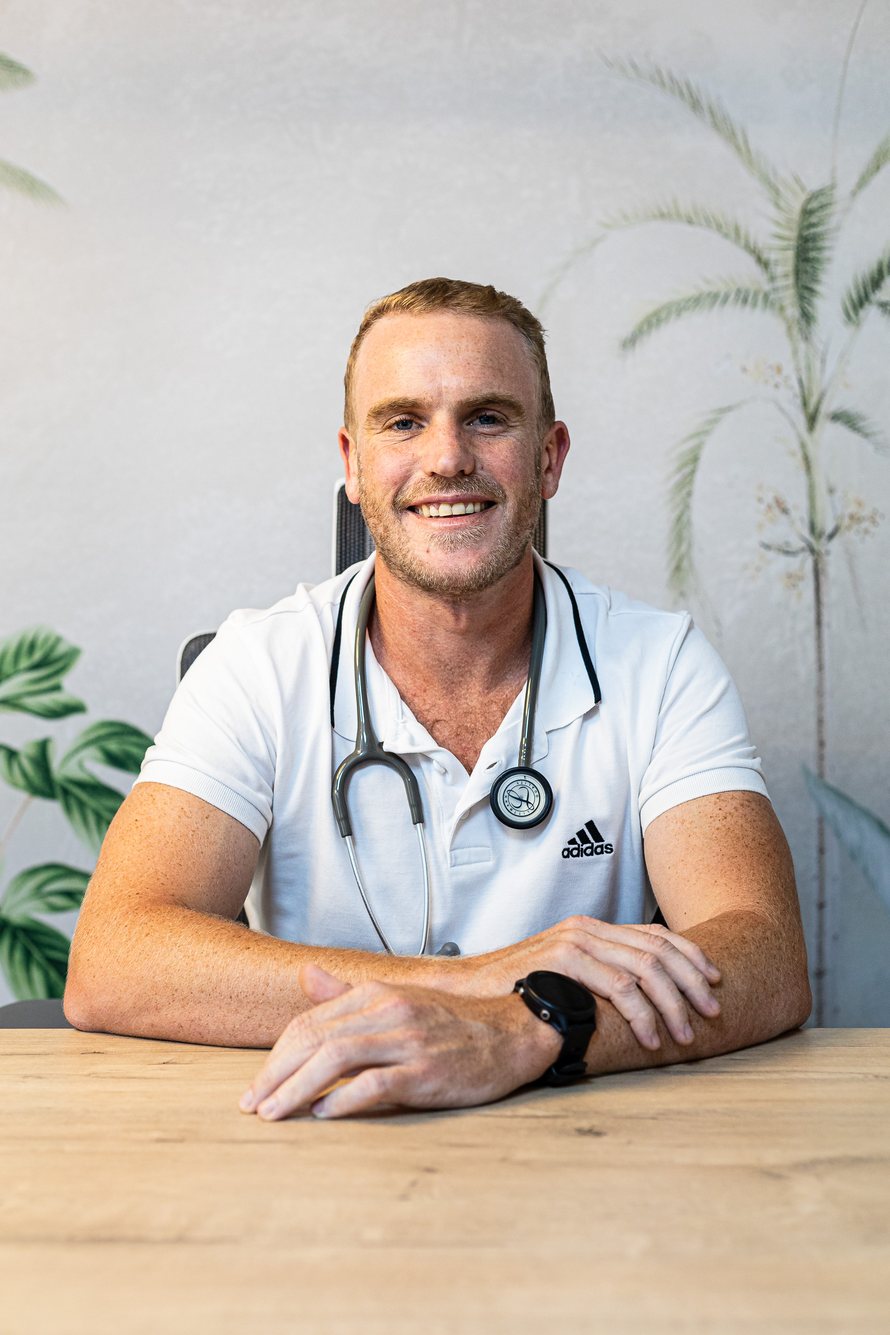
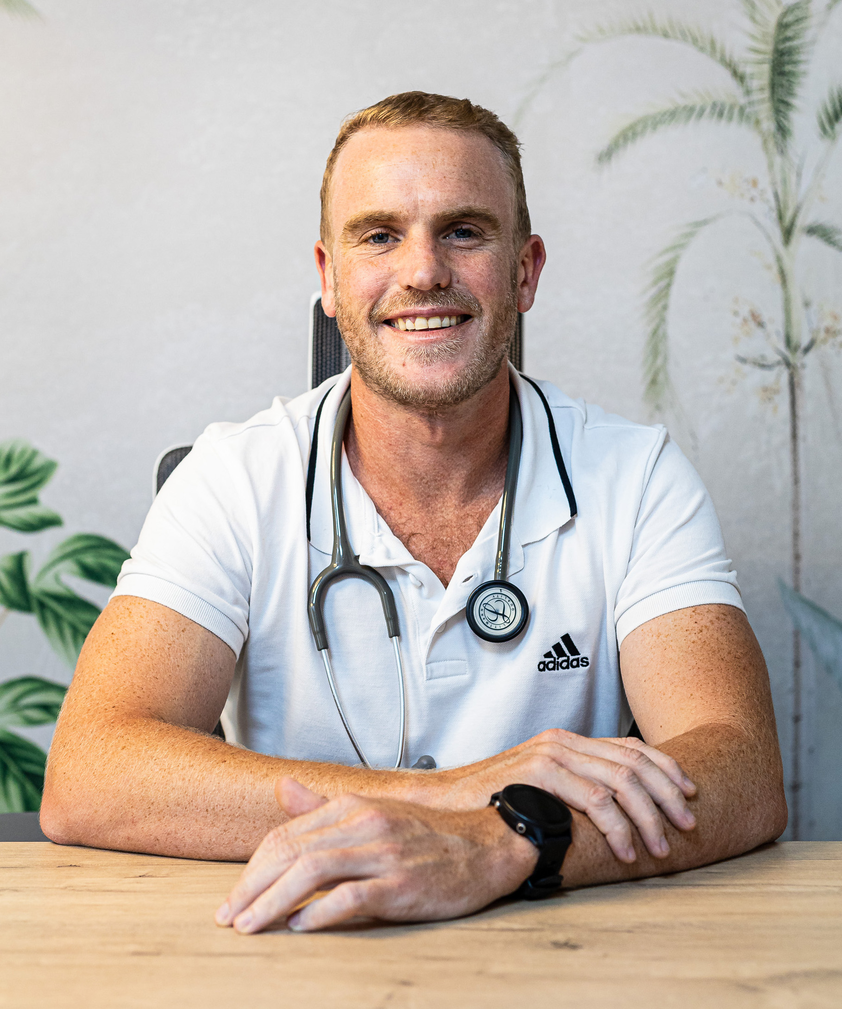
feat: add about section to home page

diff --git a/app/page.tsx b/app/page.tsx
@@ -1,29 +1,35 @@
+import Image from "next/image";
 import HeroComponent from "./_components/home-page/hero-component";
 
+import data from "@/app/_data/general-data.json";
+
 export default function Home() {
+  const {
+    homePage: {
+      about: { paragraphs, image: aboutImage },
+    },
+  } = data;
+
   return (
     <>
       <HeroComponent />
-      <main>
-        <p>
-          nesciunt quisquam, eius, repellendus accusantium eligendi unde
-          aspernatur odio? Vitae iste vel, sapiente facere illo aliquam impedit,
-          rem unde dolor vero ea ab doloribus ipsum quo voluptatem obcaecati
-          repudiandae placeat nemo maxime. Error at quasi reiciendis illo
-          voluptate molestias nesciunt deleniti, blanditiis voluptatum neque vel
-          aut cum voluptatem ratione a. Harum, atque. Commodi sit consequatur id
-          illo quia repudiandae sint dolorem, voluptatum ipsa nulla laborum
-          debitis asperiores numquam suscipit deleniti alias sapiente possimus
-          qui ab unde reprehenderit. Obcaecati soluta placeat neque! Saepe, at?
-          Repellendus fuga, quidem consectetur voluptatibus autem excepturi esse
-          impedit numquam debitis, sequi velit dolorem porro accusamus adipisci
-          placeat tenetur earum distinctio neque ducimus doloribus hic officia
-          consequatur molestiae voluptatum. Est eius commodi provident dicta eos
-          quam cum architecto, modi non nulla tempore aspernatur sapiente beatae
-          hic quibusdam quis repellendus. Vero minus quae perspiciatis, nobis
-          enim quaerat sed sequi aliquam suscipit sapiente, aut officia?
-          Distinctio, quam?
-        </p>
+      <main className="pt-20 grid gap-10 bg-[url('/images/monks-medical-16.jpg')] -mx-7 p-7 min-[800px]:grid-cols-[1fr_250px] desktopSmall:grid-cols-[1fr_0.75fr] desktopSmall:-mx-[200px] desktopSmall:px-[200px]">
+        <h2 className="min-[800px]:hidden">Dr. Kyle Rorke</h2>
+        <div className="grid gap-4 order-2 min-[800px]:order-1 place-content-start">
+          <h2 className="hidden mb-6 min-[800px]:block">Dr. Kyle Rorke</h2>
+          {paragraphs.map((item, index) => (
+            <p key={index} className="text-center min-[800px]:text-justify">
+              {item}
+            </p>
+          ))}
+        </div>
+        <Image
+          src={aboutImage}
+          alt="Dr. Kyle Rorke"
+          width={600}
+          height={900}
+          className="aspect-[3/4] phone:max-h-[450px] min-[800px]:max-h-fit min-[500px]:object-top min-[800px]:order-2 desktopSmall:aspect-square"
+        />
       </main>
     </>
   );

diff --git a/app/_components/navigation/mobile/mobile-header.tsx b/app/_components/navigation/mobile/mobile-header.tsx
@@ -1,6 +1,6 @@
 "use client";
 
-import { useState } from "react";
+import { useEffect, useState } from "react";
 
 import classNames from "classnames";
 
@@ -9,6 +9,18 @@ import MobileMenuToggle from "./mobile-menu-toggle";
 
 const MobileHeader = () => {
   const [showMenuToggle, setShowMenuToggle] = useState(false);
+
+  useEffect(() => {
+    if (showMenuToggle) {
+      document.body.style.overflow = "hidden";
+    } else {
+      document.body.style.overflow = "auto";
+    }
+
+    return () => {
+      document.body.style.overflow = "auto";
+    };
+  }, [showMenuToggle]);
 
   return (
     <header className="desktopSmall:hidden">
@@ -51,7 +63,7 @@ const MobileHeader = () => {
       <MobileMenuToggle
         onClick={() => setShowMenuToggle(!showMenuToggle)}
         cssClasses={classNames(
-          "fixed top-16 z-50 w-full h-full bg-white/95 dark:bg-beige900/[98%] px-6 pt-12 ease-in-out duration-[250ms] tablet:px-10 desktopSmall:hidden",
+          "fixed top-16 z-50 w-full h-screen bg-white dark:bg-beige900/[98%] px-6 pt-12 ease-in-out duration-[250ms] tablet:px-10 desktopSmall:hidden",
           {
             "translate-x-0": showMenuToggle,
             "translate-x-full": !showMenuToggle,

diff --git a/app/_components/navigation/footer.tsx b/app/_components/navigation/footer.tsx
@@ -30,7 +30,7 @@ const Footer = () => {
               alt="Monk's Medical logo"
               width={100}
               height={124.49}
-              className="desktopSmall:hidden"
+              className="desktopSmall:hidden w-[100px]"
             />
             <p className="flex flex-col gap-1 items-center desktopSmall:flex-row desktopSmall:gap-0">
               <Link
@@ -49,7 +49,7 @@ const Footer = () => {
               alt="Monk's Medical logo"
               width={67}
               height={83}
-              className="hidden desktopSmall:block"
+              className="hidden desktopSmall:block w-[67px]"
             />
             <p className="flex flex-col gap-1 items-center font-thin desktopSmall:items-end">
               Designed & developed by
@@ -59,7 +59,7 @@ const Footer = () => {
                 className="font-thin text-link desktopSmall:hover:opacity-80 ease-in-out duration-300 p-2 -m-2 desktopSmall:p-0 desktopSmall:m-0"
               >
                 The Wright Designs
-              </Link>{" "}
+              </Link>
             </p>
           </div>
         </div>

diff --git a/app/_components/slider.tsx b/app/_components/slider.tsx
@@ -36,10 +36,9 @@ const Slider = ({ cssClasses, desktop }: Props) => {
             <SwiperSlide key={index}>
               <Image
                 src={slide}
-                alt={`Monk's Medical - Image ${index}`}
+                alt={`Monk's Medical by Dr. Kyle Rorke - Image ${index}`}
                 width={1680}
                 height={1120}
-                className="w-full h-full object-cover"
               />
             </SwiperSlide>
           ))}

diff --git a/tailwind.config.ts b/tailwind.config.ts
@@ -77,10 +77,12 @@ const config: Config = {
       green: "#A6B2A9",
       link: "#0000EE",
     },
-    dropShadow: {
-      default: "0 4px 4px rgba(45, 44, 51, 0.25)",
+
+    extend: {
+      dropShadow: {
+        default: "0 4px 4px rgba(45, 44, 51, 0.25)",
+      },
     },
-    extend: {},
   },
   plugins: [],
 };

diff --git a/app/_components/logo.tsx b/app/_components/logo.tsx
@@ -15,7 +15,7 @@ const Logo = ({ large }: Props) => {
         alt="Monk's Medical Logo"
         width={60.69}
         height={40}
-        className={classNames("", {
+        className={classNames(" drop-shadow-none", {
           "w-[60.69px] h-[40px]": large,
           "w-[44px] h-[29px]": !large,
         })}

diff --git a/app/globals.css b/app/globals.css
@@ -106,4 +106,8 @@
     @apply text-button
   }
 
+  img {
+    @apply drop-shadow-default rounded-lg object-cover w-full h-full
+  }
+
 }
